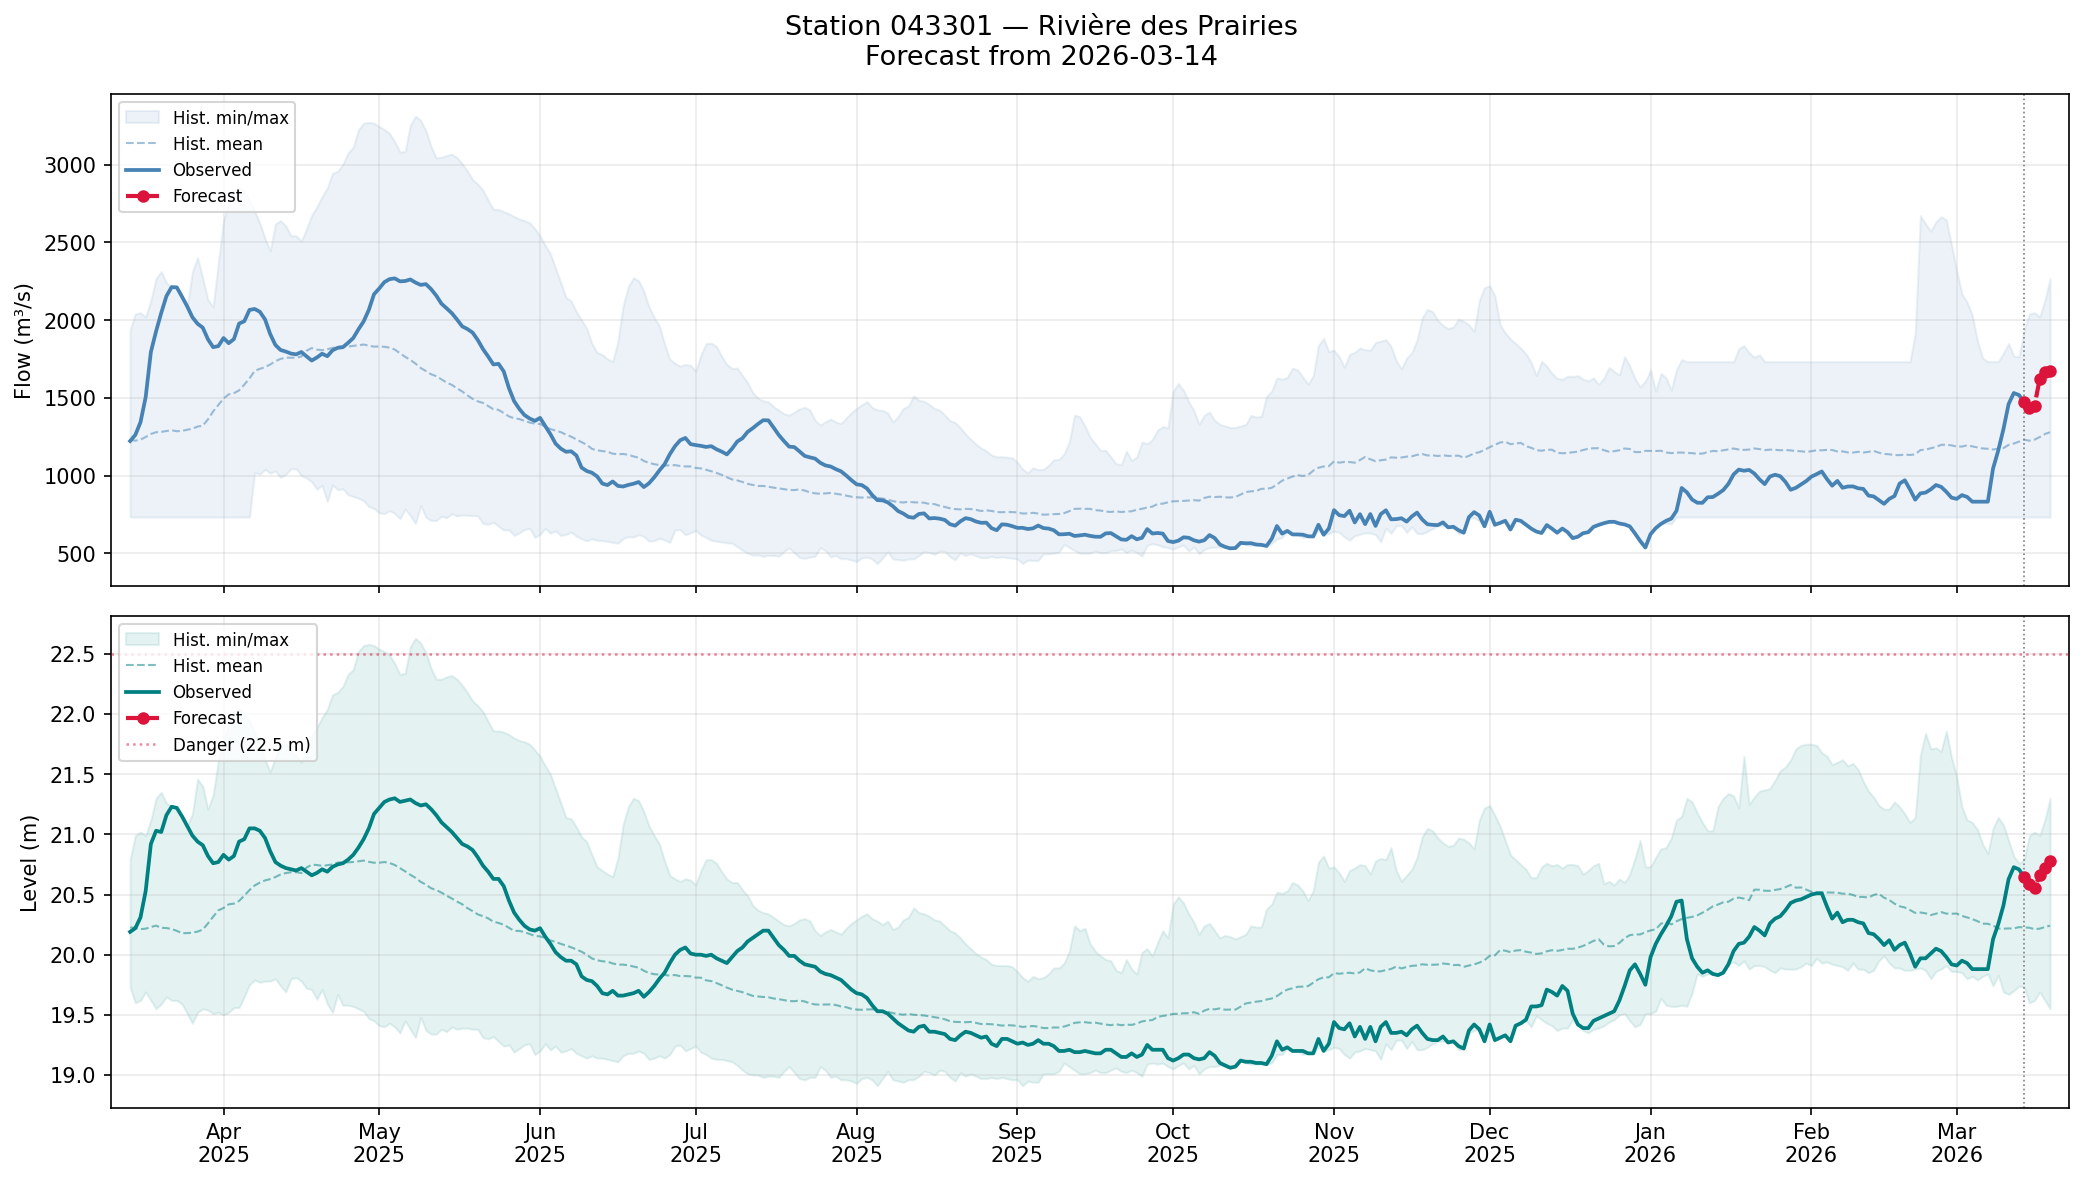
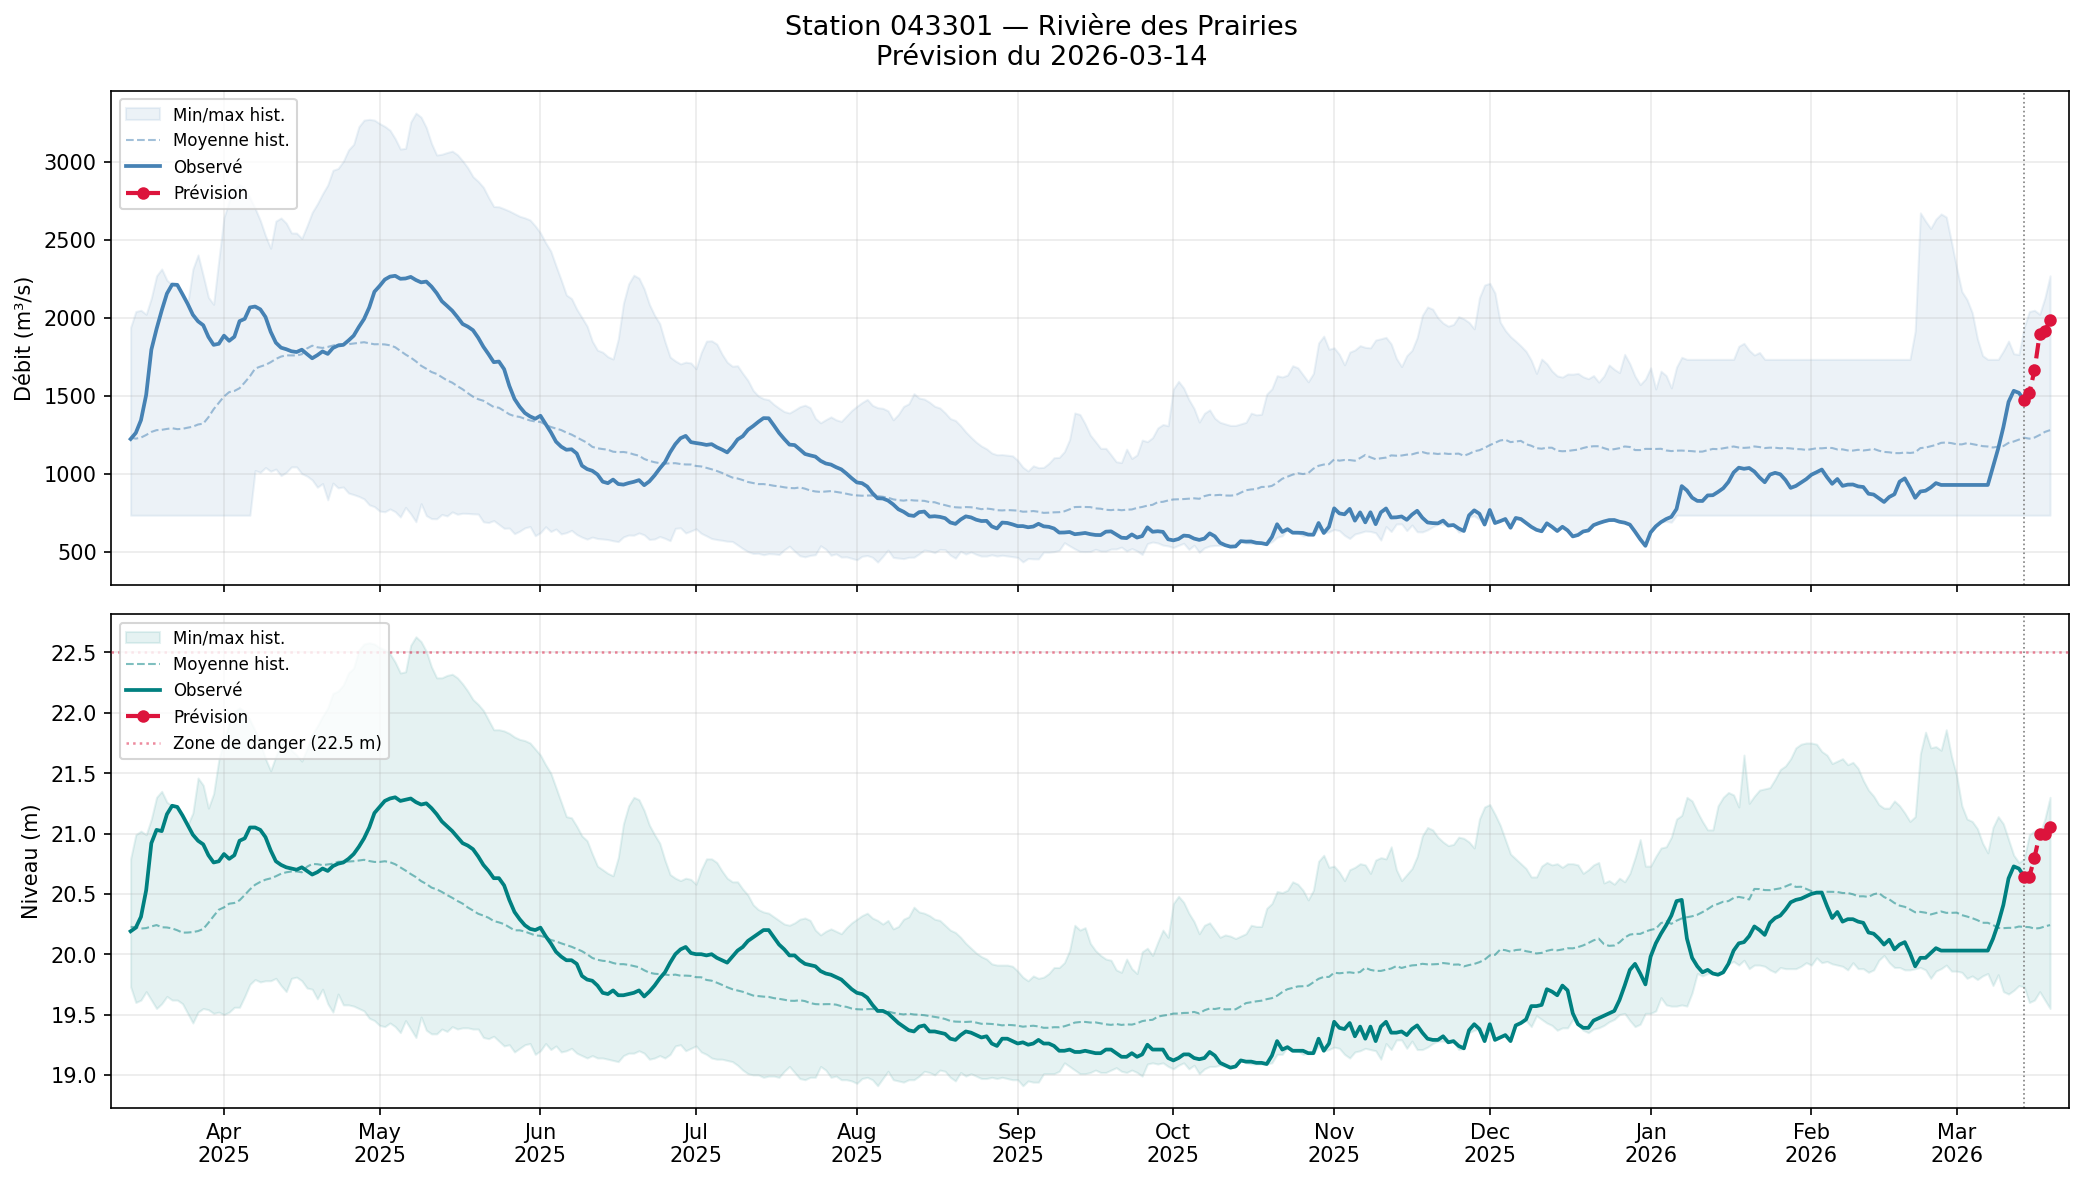
feat: translate forecast graphs to French

diff --git a/src/predict.py b/src/predict.py
@@ -214,35 +214,35 @@ def plot_forecast(
     # ── Plot ─────────────────────────────────────────────────────────────────
     fig, (ax_f, ax_l) = plt.subplots(2, 1, figsize=figsize, sharex=True)
     fig.suptitle(
-        f"Station 043301 — Rivière des Prairies\nForecast from {anchor_date.strftime('%Y-%m-%d')}",
+        f"Station 043301 — Rivière des Prairies\nPrévision du {anchor_date.strftime('%Y-%m-%d')}",
         fontsize=13,
     )
 
     for ax, var, unit, color in [
-        (ax_f, "flow_m3s",  "Flow (m³/s)", "steelblue"),
-        (ax_l, "level_m",   "Level (m)",   "teal"),
+        (ax_f, "flow_m3s",  "Débit (m³/s)", "steelblue"),
+        (ax_l, "level_m",   "Niveau (m)",   "teal"),
     ]:
         lo  = env[(var, "min")]
         hi  = env[(var, "max")]
         avg = env[(var, "mean")]
 
         # Historical envelope
-        ax.fill_between(env.index, lo, hi, color=color, alpha=0.10, label="Hist. min/max")
-        ax.plot(env.index, avg, color=color, lw=1, alpha=0.5, linestyle="--", label="Hist. mean")
+        ax.fill_between(env.index, lo, hi, color=color, alpha=0.10, label="Min/max hist.")
+        ax.plot(env.index, avg, color=color, lw=1, alpha=0.5, linestyle="--", label="Moyenne hist.")
 
         # Observed history
-        ax.plot(obs.index, obs[var], color=color, lw=1.8, label="Observed")
+        ax.plot(obs.index, obs[var], color=color, lw=1.8, label="Observé")
 
         # 5-day forecast — connect last observed point for continuity
         bridge_dates  = [anchor_date] + result["date"].tolist()
         bridge_values = [obs[var].iloc[-1]] + result[var].tolist()
         ax.plot(bridge_dates, bridge_values, color="crimson", lw=2,
-                linestyle="--", marker="o", markersize=5, zorder=5, label="Forecast")
+                linestyle="--", marker="o", markersize=5, zorder=5, label="Prévision")
 
         # Danger zone line (level panel only)
         if var == "level_m":
             ax.axhline(22.5, color="crimson", lw=1.2, linestyle=":",
-                       alpha=0.5, label="Danger (22.5 m)", zorder=4)
+                       alpha=0.5, label="Zone de danger (22.5 m)", zorder=4)
 
         # "Today" marker
         ax.axvline(anchor_date, color="gray", lw=0.8, linestyle=":")
